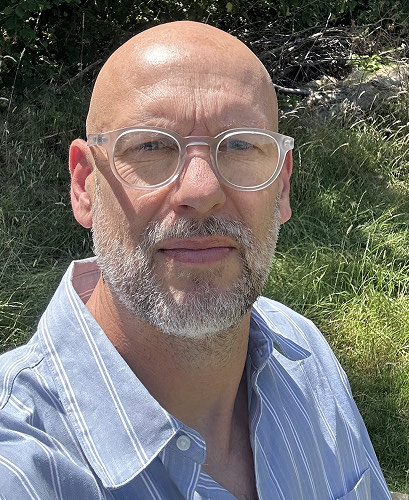
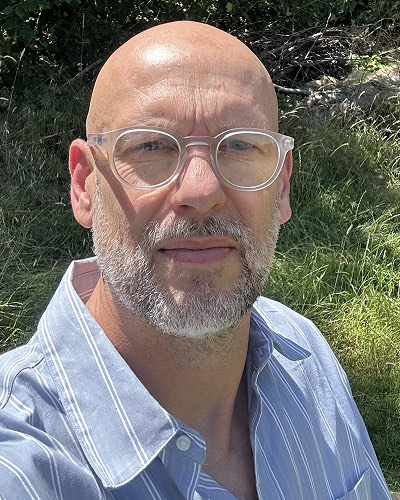
Crop founder photo to 400x500, display at 200x250

diff --git a/src/sections/about.php b/src/sections/about.php
@@ -29,7 +29,7 @@ $check = '<svg width="14" height="14" viewBox="0 0 24 24" fill="none" stroke="va
     <div class="founder">
       <div class="founder__aside">
         <?php if (is_file(dirname(__DIR__, 2) . '/public/assets/img/richard-website.jpg')): ?>
-          <img class="founder__photo" src="<?= e(asset('img/richard-website.jpg')) ?>" alt="Richard, founder of Nospario Digital" width="409" height="500" loading="lazy">
+          <img class="founder__photo" src="<?= e(asset('img/richard-website.jpg')) ?>" alt="Richard, founder of Nospario Digital" width="200" height="250" loading="lazy">
         <?php else: ?>
           <div class="founder__photo founder__photo--placeholder" aria-hidden="true">Richard</div>
         <?php endif; ?>
